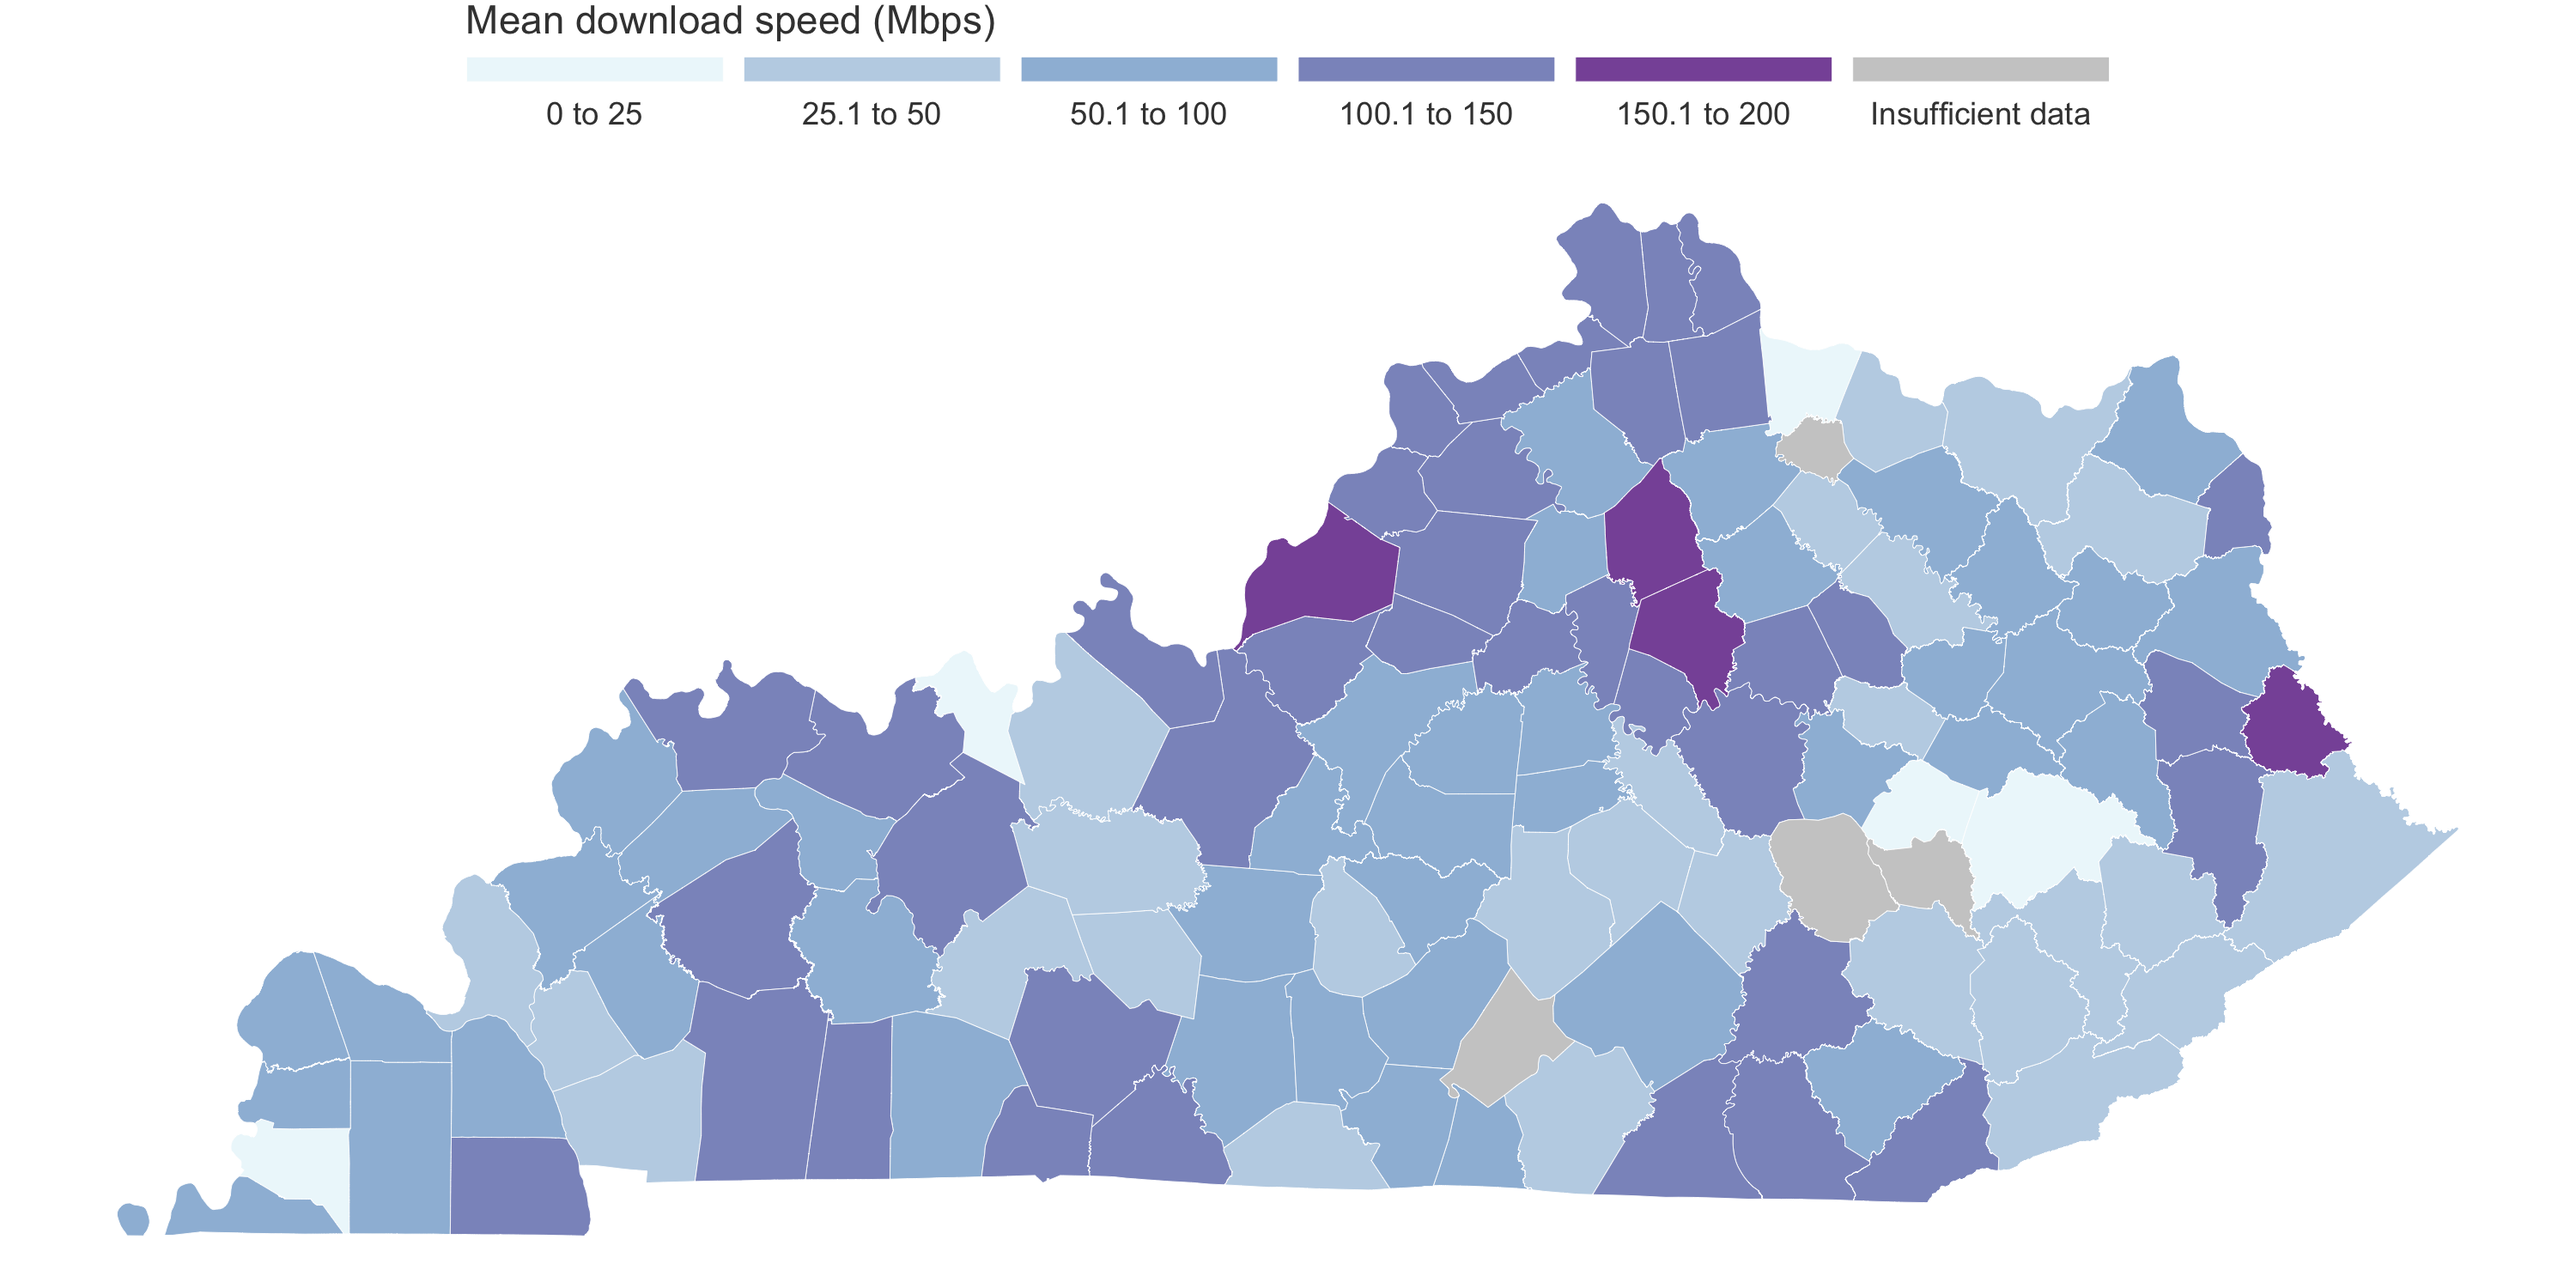
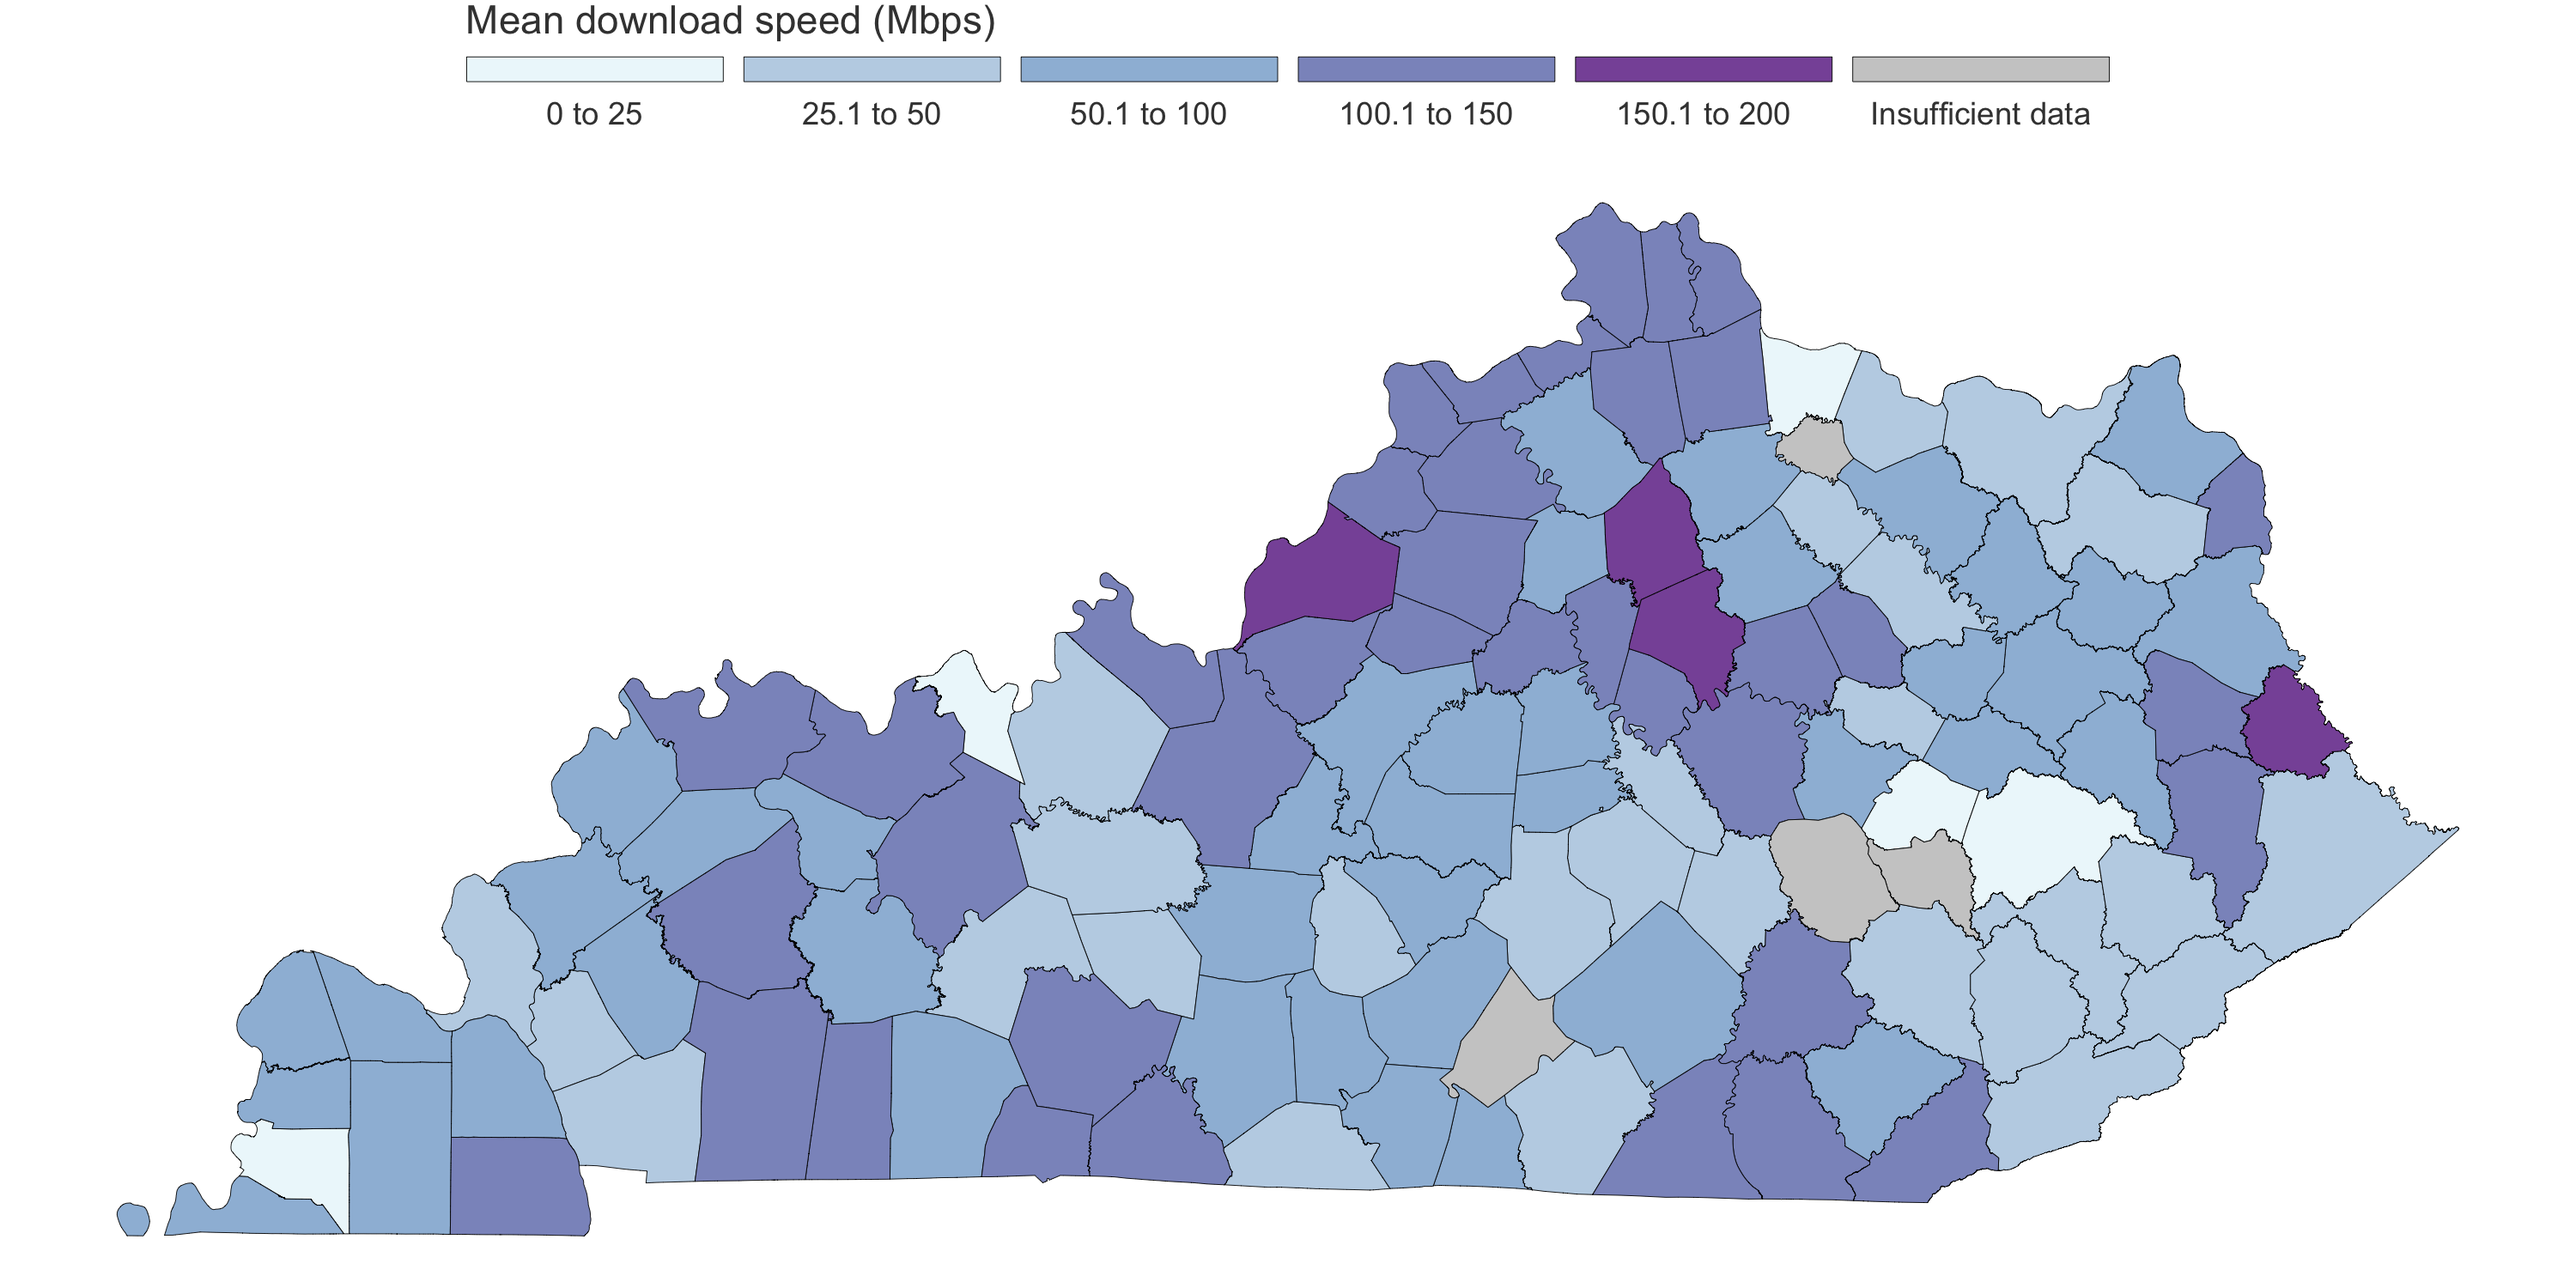
just change outline color

diff --git a/tutorials/aggregate_by_county.md b/tutorials/aggregate_by_county.md
@@ -1286,7 +1286,7 @@ county_stats_sf <- ky_counties %>%
   mutate(dl_cat = cut(mean_dl_mbps_wt, c(0, 25, 50, 100, 150, 200), ordered_result = TRUE))
 
 ggplot() +
-  geom_sf(data = county_stats_sf, aes(fill = dl_cat), color = "white", lwd = 0.1) +
+  geom_sf(data = county_stats_sf, aes(fill = dl_cat), color = "black", lwd = 0.1) +
   theme_void() +
   scale_fill_manual(values = brewer.pal(n = 6, name = "BuPu"),  
                     na.value = "gray80", 
